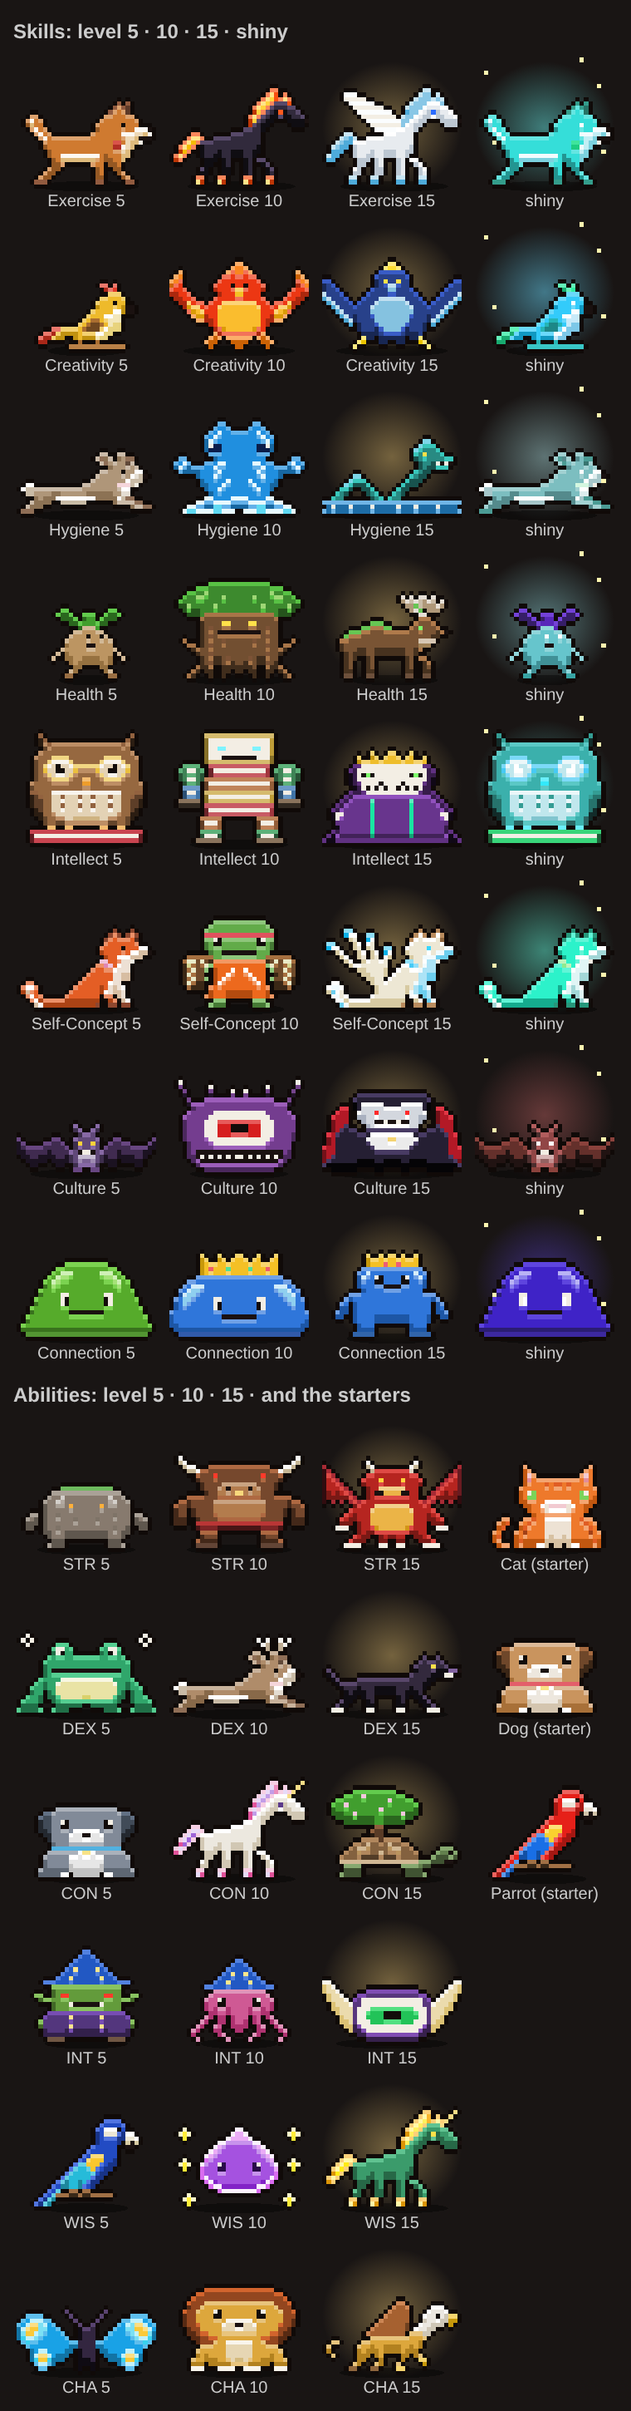
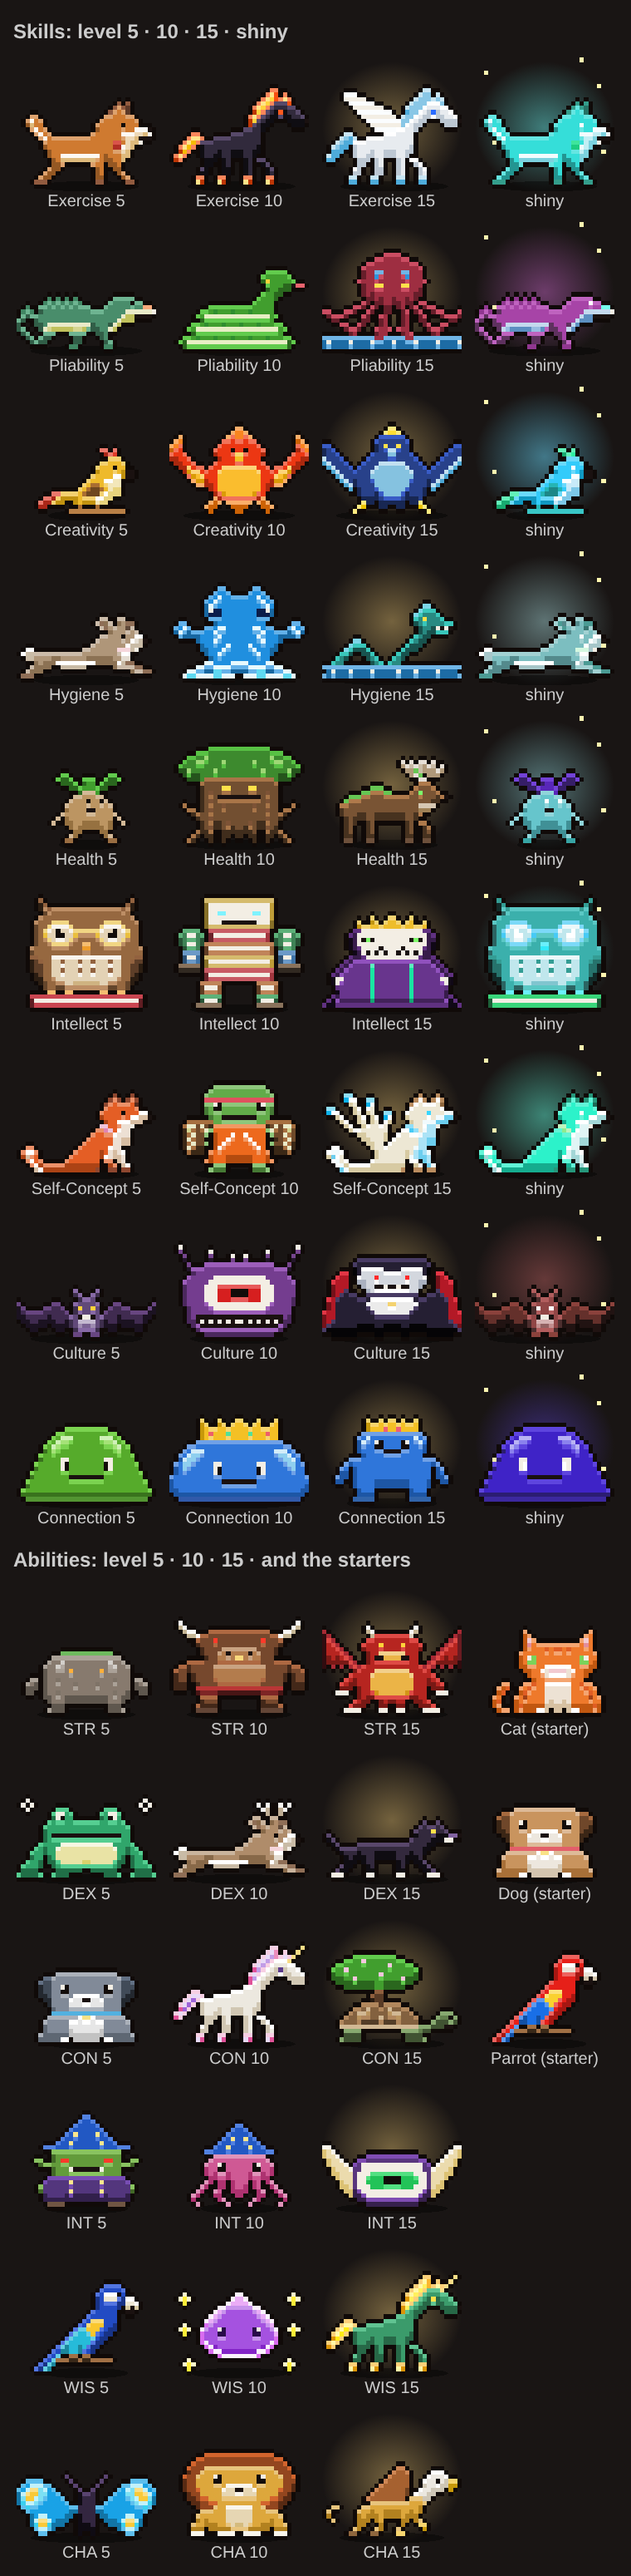
Creativity moves to Charisma; new Pliability skill under Dexterity
- Pliability companions: Limber Lizard, Lithe Boa, Kraken
- Existing installs updated automatically unless Creativity was already moved

Claude-Session: https://claude.ai/code/session_0134JX3tvixKL9yooqAYVUdm

diff --git a/index.html b/index.html
@@ -454,7 +454,7 @@ const RULES = {
 };
 const DEMO = !!window.XP_DEMO;
 const APP_KIND = 'public';
-const APP_VERSION = '2026.11.09-2231';
+const APP_VERSION = '2026.11.09-2245';
 const STORE_KEY = DEMO ? 'heros-codex-public-demo-v1' : 'heros-codex-public-v1';   // separate from any other copy on the same site
 
 /* ============ Icons ============ */
@@ -533,7 +533,7 @@ const ABILITY_NAME = Object.fromEntries(ABILITIES);
 const PAGE_TIERS = () => [{amt:15,xp:10},{amt:30,xp:20},{amt:50,xp:30}];
 const TIME_TIERS = () => [{amt:30,xp:10},{amt:60,xp:20},{amt:90,xp:30}];
 const GROUP_NAME = { exercise:'Exercise' };
-const SCHEMA = 1;
+const SCHEMA = 2;
 
 /* ============ Companions (pixel pets) ============ */
 // Sprites: 32x32 canvas. Rows of 16 chars are mirrored; rows of 32 are used as-is.
@@ -1810,13 +1810,14 @@ const STARTERS = [
   ['p_dog','dog','Dog','A loyal pup who would follow you into any dungeon, tail wagging the whole way.'],
   ['p_parrot','parrot','Parrot','A clever macaw who repeats your victories to anyone who will listen.'],
 ];
-const SKILL_PETS = { exercise:['hound','nightmare','pegasus'], selfconcept:['fox','turtle','kitsune'], hygiene:['hare','waterelemental','leviathan'], culture:['bat','beholder','vampire'], connection:['slime','kingslime','emperorslime'], creativity:['finch','phoenix','thunderbird'], health:['mandrake','treant','elk'], intellect:['owl','golem','lich'] };
+const SKILL_PETS = { pliability:['lizard','boa','kraken'], exercise:['hound','nightmare','pegasus'], selfconcept:['fox','turtle','kitsune'], hygiene:['hare','waterelemental','leviathan'], culture:['bat','beholder','vampire'], connection:['slime','kingslime','emperorslime'], creativity:['finch','phoenix','thunderbird'], health:['mandrake','treant','elk'], intellect:['owl','golem','lich'] };
 const PET_NAMES = {
   exercise:    [['Trail Hound','Knows every path for miles and wants to run all of them.'],['Infernal Stallion','A nightmare of smoke and flame. Its hoofprints smolder for hours after a workout.'],['Pegasus','Moves so fast it simply takes off. No workout is too hard for it.']],
   selfconcept: [['Lotus Fox','Naps in perfect balance on one paw. Knows exactly who it is.'],['Turtle Monk','Has held the same pose for three hundred years. Still breathing deeply.'],['Nine-Tailed Kitsune','A tail for every lesson learned about itself. Perfectly still, perfectly aware.']],
   hygiene:     [['Fluffy Bunny','Grooms itself twelve times a day and looks wonderful every time.'],['Water Elemental','A living tide that keeps everything it touches fresh and clean.'],['Leviathan','A serpent of the clearest seas. Nothing murky survives near it.']],
   culture:     [['Matinee Bat','Watches from the rafters. Shushes no one.'],['Beholder','Never blinks during a show. Has a dozen eyes for every scene.'],['Vampire Lord','Has seen every play, film and concert for five hundred years. Still has opinions.']],
   connection:  [['Chatter Slime','Wobbles happily whenever someone says hello.'],['King Slime','Rules a kingdom of friends. Its crown has a jewel for each one.'],['Emperor Slime','Stood up one day and never sat back down. Its court is everyone it has ever met.']],
+  pliability:  [['Limber Lizard','Bends around every rock on the trail without breaking stride.'],['Lithe Boa','Ties itself in knots on purpose. Untangles with a sigh of relief.'],['Kraken','Reaches eight directions at once. Never once pulled a muscle.']],
   creativity:  [['Lyre Finch','Hums your last idea back to you, slightly off-key.'],['Phoenix','Burns bright, starts fresh, and never stops creating.'],['Thunderbird','Every beat of its wings is a new idea. Every cry is a masterpiece.']],
   health:      [['Mandrake Sprout','Screams softly when thirsty. Quite polite about it.'],['Ancient Treant','Has outlived every illness in the forest by taking good care of itself.'],['Mossy Elk','Moss grows on its back and ferns sprout from its antlers. Strong, calm and well rested.']],
   intellect:   [['Wisened Owl','Peers over its spectacles at anything you have not finished reading.'],['Tome Golem','A guardian stitched from a hundred books. It remembers every page.'],['Lich','Spent a thousand years studying. Still has a list of books it wants to get to.']],
@@ -1934,7 +1935,8 @@ function defaultState(){
     conditionDefs: DEFAULT_CONDITIONS(), conditions: {}, pets: {},
     skills: [
       { id:'exercise',    name:'Exercise',        icon:'dumbbell', ability:'STR', titles:['Iron-Willed','Titan'] },
-      { id:'creativity',  name:'Creativity',      icon:'brush',    ability:'DEX', titles:['Artisan','Visionary'] },
+      { id:'pliability',  name:'Pliability',      icon:'leaf',     ability:'DEX', titles:['Limber','Supple as a Willow'] },
+      { id:'creativity',  name:'Creativity',      icon:'brush',    ability:'CHA', titles:['Artisan','Visionary'] },
       { id:'hygiene',     name:'Hygiene',         icon:'drop',     ability:'CON', titles:['Well-Kept','Pristine'] },
       { id:'health',      name:'Health',          icon:'potion',   ability:'CON', titles:['Hale','Evergreen'] },
       { id:'intellect',   name:'Intellectualism', icon:'book',     ability:'INT', titles:['Scholar','Sage'] },
@@ -1956,6 +1958,7 @@ function SAMPLE_TASKS(){
       { id:'q_brush',    name:'Brush and floss',     skill:'hygiene',     type:'once',  xp:10, created:C },
       { id:'q_water',    name:'Drink enough water',  skill:'health',      type:'once',  xp:10, created:C },
       { id:'q_reflect',  name:'Journal or reflect',  skill:'selfconcept', type:'once',  xp:10, created:C },
+      { id:'q_stretch',  name:'Stretch',             skill:'pliability',  type:'once',  xp:10, created:C },
       { id:'w_friend',   name:'Reach out to a friend',      skill:'connection', type:'once', xp:10, cadence:'weekly', created:C },
       { id:'w_newperson',name:'Meet someone new',           skill:'connection', type:'once', xp:30, cadence:'weekly', created:C },
       { id:'w_culture',  name:'Experience something new',   skill:'culture',    type:'once', xp:30, cadence:'weekly', created:C },
@@ -1992,6 +1995,10 @@ function migrate(s){
   s.created = s.created || todayKey();
   s.conditionDefs = s.conditionDefs || DEFAULT_CONDITIONS(); s.conditions = s.conditions || {}; s.pets = s.pets || {};
   s.skills.forEach(k=>{ if(!ABILITY_NAME[k.ability]) k.ability = 'WIS'; });
+  if((s.v||1) < 2){
+    const cr = s.skills.find(k=>k.id==='creativity'); if(cr && cr.ability==='DEX') cr.ability = 'CHA';
+    if(!s.skills.some(k=>k.id==='pliability')) s.skills.splice(0, 0, { id:'pliability', name:'Pliability', icon:'leaf', ability:'DEX', titles:['Limber','Supple as a Willow'] });
+  }
   s.v = SCHEMA;
   return s;
 }

diff --git a/preview.html b/preview.html
@@ -439,7 +439,7 @@ const RULES = {
 };
 const DEMO = !!window.XP_DEMO;
 const APP_KIND = 'public';
-const APP_VERSION = '2026.11.09-2231';
+const APP_VERSION = '2026.11.09-2245';
 const STORE_KEY = DEMO ? 'heros-codex-public-demo-v1' : 'heros-codex-public-v1';   // separate from any other copy on the same site
 
 /* ============ Icons ============ */
@@ -518,7 +518,7 @@ const ABILITY_NAME = Object.fromEntries(ABILITIES);
 const PAGE_TIERS = () => [{amt:15,xp:10},{amt:30,xp:20},{amt:50,xp:30}];
 const TIME_TIERS = () => [{amt:30,xp:10},{amt:60,xp:20},{amt:90,xp:30}];
 const GROUP_NAME = { exercise:'Exercise' };
-const SCHEMA = 1;
+const SCHEMA = 2;
 
 /* ============ Companions (pixel pets) ============ */
 // Sprites: 32x32 canvas. Rows of 16 chars are mirrored; rows of 32 are used as-is.
@@ -1795,13 +1795,14 @@ const STARTERS = [
   ['p_dog','dog','Dog','A loyal pup who would follow you into any dungeon, tail wagging the whole way.'],
   ['p_parrot','parrot','Parrot','A clever macaw who repeats your victories to anyone who will listen.'],
 ];
-const SKILL_PETS = { exercise:['hound','nightmare','pegasus'], selfconcept:['fox','turtle','kitsune'], hygiene:['hare','waterelemental','leviathan'], culture:['bat','beholder','vampire'], connection:['slime','kingslime','emperorslime'], creativity:['finch','phoenix','thunderbird'], health:['mandrake','treant','elk'], intellect:['owl','golem','lich'] };
+const SKILL_PETS = { pliability:['lizard','boa','kraken'], exercise:['hound','nightmare','pegasus'], selfconcept:['fox','turtle','kitsune'], hygiene:['hare','waterelemental','leviathan'], culture:['bat','beholder','vampire'], connection:['slime','kingslime','emperorslime'], creativity:['finch','phoenix','thunderbird'], health:['mandrake','treant','elk'], intellect:['owl','golem','lich'] };
 const PET_NAMES = {
   exercise:    [['Trail Hound','Knows every path for miles and wants to run all of them.'],['Infernal Stallion','A nightmare of smoke and flame. Its hoofprints smolder for hours after a workout.'],['Pegasus','Moves so fast it simply takes off. No workout is too hard for it.']],
   selfconcept: [['Lotus Fox','Naps in perfect balance on one paw. Knows exactly who it is.'],['Turtle Monk','Has held the same pose for three hundred years. Still breathing deeply.'],['Nine-Tailed Kitsune','A tail for every lesson learned about itself. Perfectly still, perfectly aware.']],
   hygiene:     [['Fluffy Bunny','Grooms itself twelve times a day and looks wonderful every time.'],['Water Elemental','A living tide that keeps everything it touches fresh and clean.'],['Leviathan','A serpent of the clearest seas. Nothing murky survives near it.']],
   culture:     [['Matinee Bat','Watches from the rafters. Shushes no one.'],['Beholder','Never blinks during a show. Has a dozen eyes for every scene.'],['Vampire Lord','Has seen every play, film and concert for five hundred years. Still has opinions.']],
   connection:  [['Chatter Slime','Wobbles happily whenever someone says hello.'],['King Slime','Rules a kingdom of friends. Its crown has a jewel for each one.'],['Emperor Slime','Stood up one day and never sat back down. Its court is everyone it has ever met.']],
+  pliability:  [['Limber Lizard','Bends around every rock on the trail without breaking stride.'],['Lithe Boa','Ties itself in knots on purpose. Untangles with a sigh of relief.'],['Kraken','Reaches eight directions at once. Never once pulled a muscle.']],
   creativity:  [['Lyre Finch','Hums your last idea back to you, slightly off-key.'],['Phoenix','Burns bright, starts fresh, and never stops creating.'],['Thunderbird','Every beat of its wings is a new idea. Every cry is a masterpiece.']],
   health:      [['Mandrake Sprout','Screams softly when thirsty. Quite polite about it.'],['Ancient Treant','Has outlived every illness in the forest by taking good care of itself.'],['Mossy Elk','Moss grows on its back and ferns sprout from its antlers. Strong, calm and well rested.']],
   intellect:   [['Wisened Owl','Peers over its spectacles at anything you have not finished reading.'],['Tome Golem','A guardian stitched from a hundred books. It remembers every page.'],['Lich','Spent a thousand years studying. Still has a list of books it wants to get to.']],
@@ -1919,7 +1920,8 @@ function defaultState(){
     conditionDefs: DEFAULT_CONDITIONS(), conditions: {}, pets: {},
     skills: [
       { id:'exercise',    name:'Exercise',        icon:'dumbbell', ability:'STR', titles:['Iron-Willed','Titan'] },
-      { id:'creativity',  name:'Creativity',      icon:'brush',    ability:'DEX', titles:['Artisan','Visionary'] },
+      { id:'pliability',  name:'Pliability',      icon:'leaf',     ability:'DEX', titles:['Limber','Supple as a Willow'] },
+      { id:'creativity',  name:'Creativity',      icon:'brush',    ability:'CHA', titles:['Artisan','Visionary'] },
       { id:'hygiene',     name:'Hygiene',         icon:'drop',     ability:'CON', titles:['Well-Kept','Pristine'] },
       { id:'health',      name:'Health',          icon:'potion',   ability:'CON', titles:['Hale','Evergreen'] },
       { id:'intellect',   name:'Intellectualism', icon:'book',     ability:'INT', titles:['Scholar','Sage'] },
@@ -1941,6 +1943,7 @@ function SAMPLE_TASKS(){
       { id:'q_brush',    name:'Brush and floss',     skill:'hygiene',     type:'once',  xp:10, created:C },
       { id:'q_water',    name:'Drink enough water',  skill:'health',      type:'once',  xp:10, created:C },
       { id:'q_reflect',  name:'Journal or reflect',  skill:'selfconcept', type:'once',  xp:10, created:C },
+      { id:'q_stretch',  name:'Stretch',             skill:'pliability',  type:'once',  xp:10, created:C },
       { id:'w_friend',   name:'Reach out to a friend',      skill:'connection', type:'once', xp:10, cadence:'weekly', created:C },
       { id:'w_newperson',name:'Meet someone new',           skill:'connection', type:'once', xp:30, cadence:'weekly', created:C },
       { id:'w_culture',  name:'Experience something new',   skill:'culture',    type:'once', xp:30, cadence:'weekly', created:C },
@@ -1977,6 +1980,10 @@ function migrate(s){
   s.created = s.created || todayKey();
   s.conditionDefs = s.conditionDefs || DEFAULT_CONDITIONS(); s.conditions = s.conditions || {}; s.pets = s.pets || {};
   s.skills.forEach(k=>{ if(!ABILITY_NAME[k.ability]) k.ability = 'WIS'; });
+  if((s.v||1) < 2){
+    const cr = s.skills.find(k=>k.id==='creativity'); if(cr && cr.ability==='DEX') cr.ability = 'CHA';
+    if(!s.skills.some(k=>k.id==='pliability')) s.skills.splice(0, 0, { id:'pliability', name:'Pliability', icon:'leaf', ability:'DEX', titles:['Limber','Supple as a Willow'] });
+  }
   s.v = SCHEMA;
   return s;
 }

diff --git a/src/app.html b/src/app.html
@@ -517,7 +517,7 @@ const ABILITY_NAME = Object.fromEntries(ABILITIES);
 const PAGE_TIERS = () => [{amt:15,xp:10},{amt:30,xp:20},{amt:50,xp:30}];
 const TIME_TIERS = () => [{amt:30,xp:10},{amt:60,xp:20},{amt:90,xp:30}];
 const GROUP_NAME = { exercise:'Exercise' };
-const SCHEMA = 1;
+const SCHEMA = 2;
 
 /* ============ Companions (pixel pets) ============ */
 // Sprites: 32x32 canvas. Rows of 16 chars are mirrored; rows of 32 are used as-is.
@@ -1794,13 +1794,14 @@ const STARTERS = [
   ['p_dog','dog','Dog','A loyal pup who would follow you into any dungeon, tail wagging the whole way.'],
   ['p_parrot','parrot','Parrot','A clever macaw who repeats your victories to anyone who will listen.'],
 ];
-const SKILL_PETS = { exercise:['hound','nightmare','pegasus'], selfconcept:['fox','turtle','kitsune'], hygiene:['hare','waterelemental','leviathan'], culture:['bat','beholder','vampire'], connection:['slime','kingslime','emperorslime'], creativity:['finch','phoenix','thunderbird'], health:['mandrake','treant','elk'], intellect:['owl','golem','lich'] };
+const SKILL_PETS = { pliability:['lizard','boa','kraken'], exercise:['hound','nightmare','pegasus'], selfconcept:['fox','turtle','kitsune'], hygiene:['hare','waterelemental','leviathan'], culture:['bat','beholder','vampire'], connection:['slime','kingslime','emperorslime'], creativity:['finch','phoenix','thunderbird'], health:['mandrake','treant','elk'], intellect:['owl','golem','lich'] };
 const PET_NAMES = {
   exercise:    [['Trail Hound','Knows every path for miles and wants to run all of them.'],['Infernal Stallion','A nightmare of smoke and flame. Its hoofprints smolder for hours after a workout.'],['Pegasus','Moves so fast it simply takes off. No workout is too hard for it.']],
   selfconcept: [['Lotus Fox','Naps in perfect balance on one paw. Knows exactly who it is.'],['Turtle Monk','Has held the same pose for three hundred years. Still breathing deeply.'],['Nine-Tailed Kitsune','A tail for every lesson learned about itself. Perfectly still, perfectly aware.']],
   hygiene:     [['Fluffy Bunny','Grooms itself twelve times a day and looks wonderful every time.'],['Water Elemental','A living tide that keeps everything it touches fresh and clean.'],['Leviathan','A serpent of the clearest seas. Nothing murky survives near it.']],
   culture:     [['Matinee Bat','Watches from the rafters. Shushes no one.'],['Beholder','Never blinks during a show. Has a dozen eyes for every scene.'],['Vampire Lord','Has seen every play, film and concert for five hundred years. Still has opinions.']],
   connection:  [['Chatter Slime','Wobbles happily whenever someone says hello.'],['King Slime','Rules a kingdom of friends. Its crown has a jewel for each one.'],['Emperor Slime','Stood up one day and never sat back down. Its court is everyone it has ever met.']],
+  pliability:  [['Limber Lizard','Bends around every rock on the trail without breaking stride.'],['Lithe Boa','Ties itself in knots on purpose. Untangles with a sigh of relief.'],['Kraken','Reaches eight directions at once. Never once pulled a muscle.']],
   creativity:  [['Lyre Finch','Hums your last idea back to you, slightly off-key.'],['Phoenix','Burns bright, starts fresh, and never stops creating.'],['Thunderbird','Every beat of its wings is a new idea. Every cry is a masterpiece.']],
   health:      [['Mandrake Sprout','Screams softly when thirsty. Quite polite about it.'],['Ancient Treant','Has outlived every illness in the forest by taking good care of itself.'],['Mossy Elk','Moss grows on its back and ferns sprout from its antlers. Strong, calm and well rested.']],
   intellect:   [['Wisened Owl','Peers over its spectacles at anything you have not finished reading.'],['Tome Golem','A guardian stitched from a hundred books. It remembers every page.'],['Lich','Spent a thousand years studying. Still has a list of books it wants to get to.']],
@@ -1918,7 +1919,8 @@ function defaultState(){
     conditionDefs: DEFAULT_CONDITIONS(), conditions: {}, pets: {},
     skills: [
       { id:'exercise',    name:'Exercise',        icon:'dumbbell', ability:'STR', titles:['Iron-Willed','Titan'] },
-      { id:'creativity',  name:'Creativity',      icon:'brush',    ability:'DEX', titles:['Artisan','Visionary'] },
+      { id:'pliability',  name:'Pliability',      icon:'leaf',     ability:'DEX', titles:['Limber','Supple as a Willow'] },
+      { id:'creativity',  name:'Creativity',      icon:'brush',    ability:'CHA', titles:['Artisan','Visionary'] },
       { id:'hygiene',     name:'Hygiene',         icon:'drop',     ability:'CON', titles:['Well-Kept','Pristine'] },
       { id:'health',      name:'Health',          icon:'potion',   ability:'CON', titles:['Hale','Evergreen'] },
       { id:'intellect',   name:'Intellectualism', icon:'book',     ability:'INT', titles:['Scholar','Sage'] },
@@ -1940,6 +1942,7 @@ function SAMPLE_TASKS(){
       { id:'q_brush',    name:'Brush and floss',     skill:'hygiene',     type:'once',  xp:10, created:C },
       { id:'q_water',    name:'Drink enough water',  skill:'health',      type:'once',  xp:10, created:C },
       { id:'q_reflect',  name:'Journal or reflect',  skill:'selfconcept', type:'once',  xp:10, created:C },
+      { id:'q_stretch',  name:'Stretch',             skill:'pliability',  type:'once',  xp:10, created:C },
       { id:'w_friend',   name:'Reach out to a friend',      skill:'connection', type:'once', xp:10, cadence:'weekly', created:C },
       { id:'w_newperson',name:'Meet someone new',           skill:'connection', type:'once', xp:30, cadence:'weekly', created:C },
       { id:'w_culture',  name:'Experience something new',   skill:'culture',    type:'once', xp:30, cadence:'weekly', created:C },
@@ -1976,6 +1979,10 @@ function migrate(s){
   s.created = s.created || todayKey();
   s.conditionDefs = s.conditionDefs || DEFAULT_CONDITIONS(); s.conditions = s.conditions || {}; s.pets = s.pets || {};
   s.skills.forEach(k=>{ if(!ABILITY_NAME[k.ability]) k.ability = 'WIS'; });
+  if((s.v||1) < 2){
+    const cr = s.skills.find(k=>k.id==='creativity'); if(cr && cr.ability==='DEX') cr.ability = 'CHA';
+    if(!s.skills.some(k=>k.id==='pliability')) s.skills.splice(0, 0, { id:'pliability', name:'Pliability', icon:'leaf', ability:'DEX', titles:['Limber','Supple as a Willow'] });
+  }
   s.v = SCHEMA;
   return s;
 }

diff --git a/tools/sheet3.html b/tools/sheet3.html
@@ -5,7 +5,7 @@
 <div id="a" style="display:grid;grid-template-columns:repeat(4,88px);gap:4px"></div>
 <script src="pets3.js"></script><script src="petrender3.js"></script>
 <script>
-const P = [['Exercise','hound','nightmare','pegasus'],['Creativity','finch','phoenix','thunderbird'],['Hygiene','hare','waterelemental','leviathan'],['Health','mandrake','treant','elk'],['Intellect','owl','golem','lich'],['Self-Concept','fox','turtle','kitsune'],['Culture','bat','beholder','vampire'],['Connection','slime','kingslime','emperorslime']];
+const P = [['Exercise','hound','nightmare','pegasus'],['Pliability','lizard','boa','kraken'],['Creativity','finch','phoenix','thunderbird'],['Hygiene','hare','waterelemental','leviathan'],['Health','mandrake','treant','elk'],['Intellect','owl','golem','lich'],['Self-Concept','fox','turtle','kitsune'],['Culture','bat','beholder','vampire'],['Connection','slime','kingslime','emperorslime']];
 const cell = (n,o,l) => `<div style="text-align:center">${sprSVG(n,Object.assign({width:84},o))}<br>${l}</div>`;
 for(const [s,a,b,c] of P) document.getElementById('g').insertAdjacentHTML('beforeend', cell(a,{},s+' 5')+cell(b,{},s+' 10')+cell(c,{aura:'#f2cd78'},s+' 15')+cell(a,{shiny:true},'shiny'));
 const pup={a:[215,10,55], d:[215,15,30], c:[0,0,90], x:[200,70,45], y:[48,90,60]}, sage={a:[225,70,45], x:[45,95,58], z:[190,70,50], c:[45,40,88], d:[28,40,30]};

diff --git a/sw.js b/sw.js
@@ -1,6 +1,6 @@
 // Offline support. VERSION is stamped by build.sh on every build.
 const PREFIX = 'hcp-';   // only touch this app's caches
-const VERSION = PREFIX + '2026.11.09-2231';
+const VERSION = PREFIX + '2026.11.09-2245';
 const SHELL = ['./', './index.html', './manifest.webmanifest', './icons/icon-180.png', './icons/icon-192.png', './icons/icon-512.png'];
 self.addEventListener('install', e => { e.waitUntil(caches.open(VERSION).then(c => c.addAll(SHELL)).then(() => self.skipWaiting())); });
 self.addEventListener('activate', e => { e.waitUntil(caches.keys().then(ks => Promise.all(ks.filter(k => k.startsWith(PREFIX) && k !== VERSION).map(k => caches.delete(k)))).then(() => self.clients.claim())); });

diff --git a/README.md b/README.md
@@ -30,11 +30,11 @@ Your progress is saved on your own phone. Nobody else can see it, including whoe
 | Skill | Ability |
 |---|---|
 | Exercise | Strength |
-| Creativity | Dexterity |
+| Pliability | Dexterity |
 | Hygiene, Health | Constitution |
 | Intellectualism | Intelligence |
 | Self-Concept, Culture | Wisdom |
-| Connection | Charisma |
+| Creativity, Connection | Charisma |
 
 The app starts with no quests. Use the **Add a new daily / weekly / side quest** buttons on the Quests tab (or the Hero tab) to add your own and attach each one to a skill. You can also rename skills, change their ability, add new skills, and delete skills you don't use.
 
